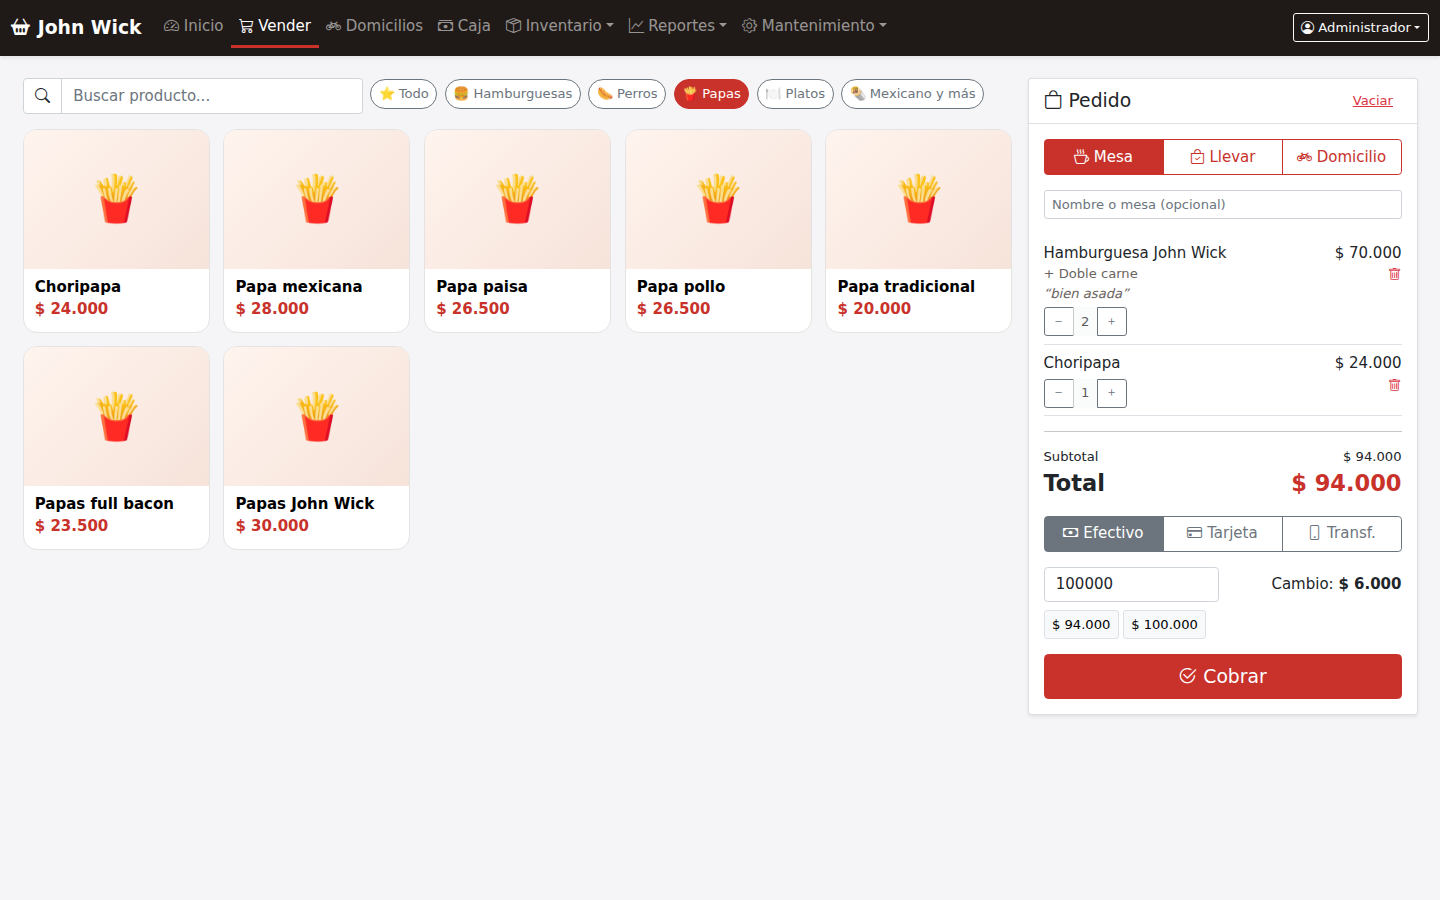
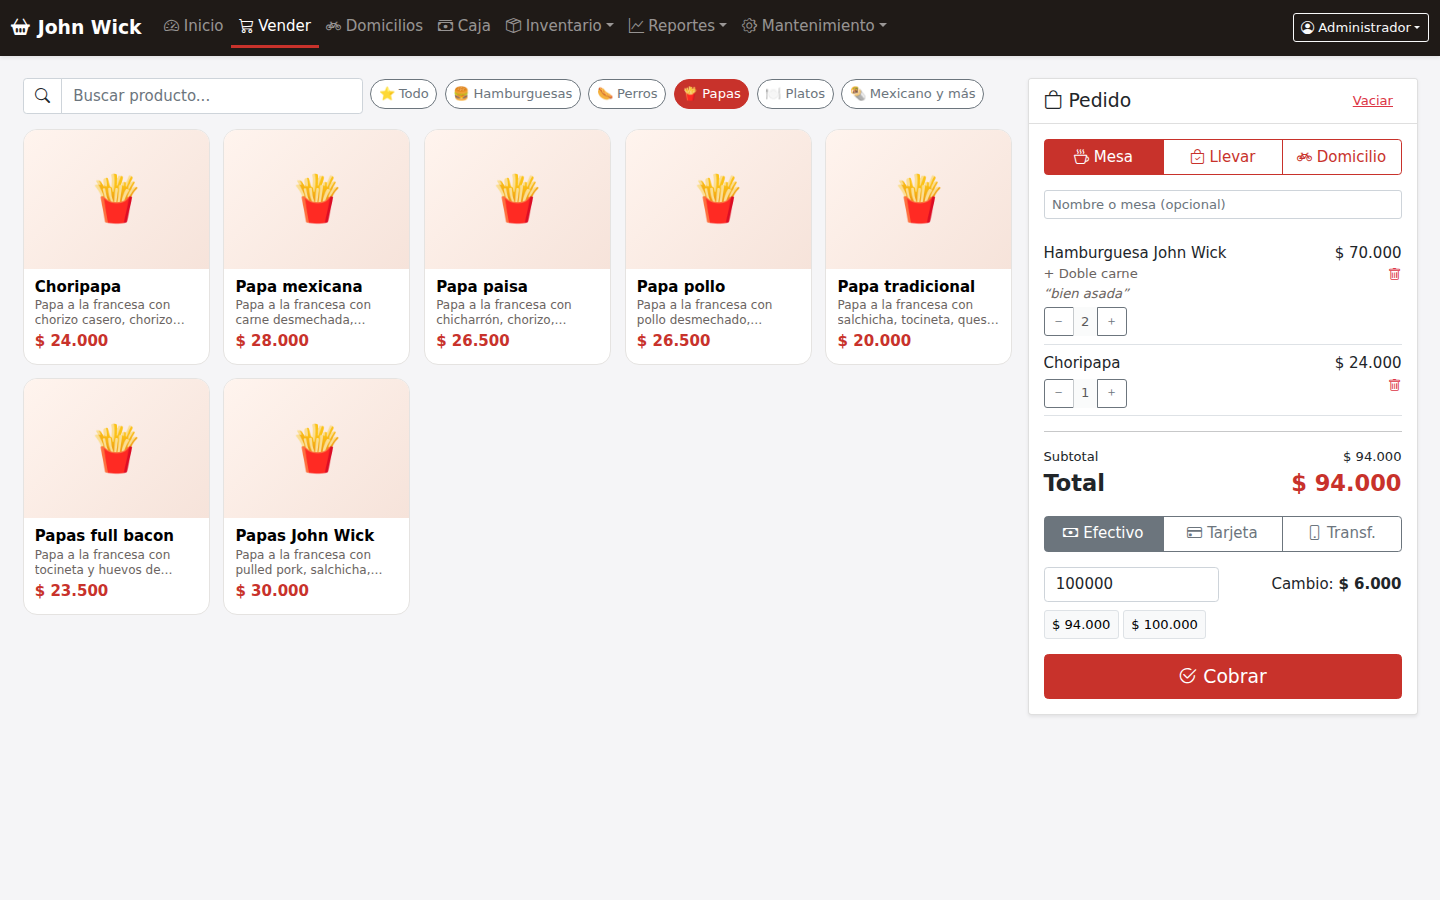
Descripciones de productos en las tarjetas del punto de venta
Claude-Session: https://claude.ai/code/session_01UHK2eQo6TMxgnL7eLcugmW

diff --git a/CapaPresentacion/wwwroot/js/venta.js b/CapaPresentacion/wwwroot/js/venta.js
@@ -45,7 +45,7 @@
                               : `<div class="producto-foto sin-foto">${esc(p.icono || '🍽')}</div>`}
                 <div class="producto-info">
                     <span class="producto-nombre">${esc(p.nombre)}</span>
-                    ${p.descripcion ? `<small class="text-muted text-truncate">${esc(p.descripcion)}</small>` : ''}
+                    ${p.descripcion ? `<small class="producto-desc">${esc(p.descripcion)}</small>` : ''}
                     <span class="producto-precio">${moneda(p.precio)}</span>
                 </div>
             </button>`).join('')

diff --git a/CapaPresentacion/wwwroot/css/site.css b/CapaPresentacion/wwwroot/css/site.css
@@ -51,6 +51,7 @@ body { background: var(--fondo); min-height: 100vh; }
 .producto-info { padding: .6rem .75rem .75rem; display: grid; gap: .15rem; }
 .producto-nombre { font-weight: 600; line-height: 1.2; }
 .producto-precio { color: var(--marca); font-weight: 700; }
+.producto-desc { color: var(--texto-suave); font-size: .8rem; line-height: 1.25; display: -webkit-box; -webkit-line-clamp: 2; -webkit-box-orient: vertical; overflow: hidden; }
 .pedido { position: sticky; top: 1rem; }
 .pedido .lineas { max-height: 38vh; overflow-y: auto; }
 .pedido .linea small { color: var(--texto-suave); }
